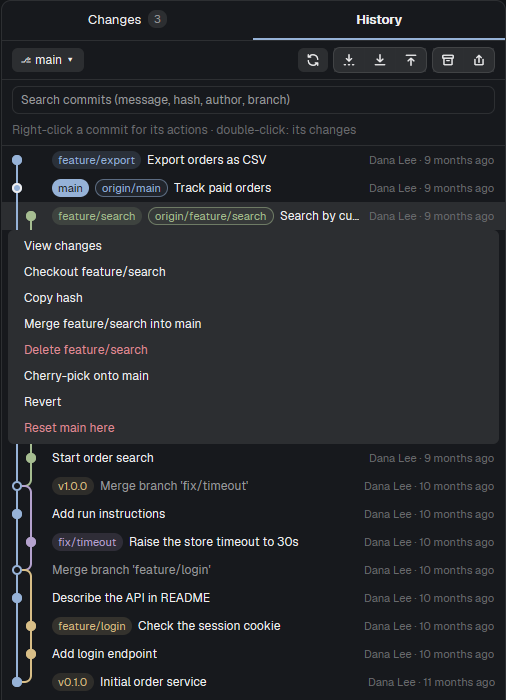
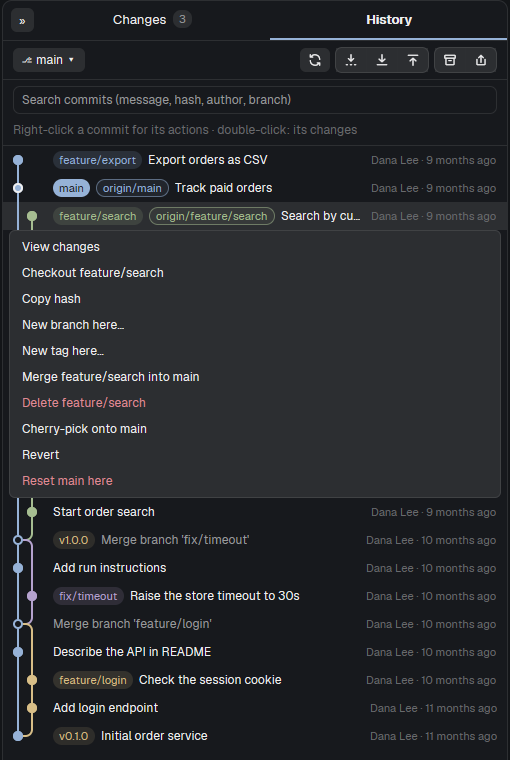
README: match the current panels; new screenshots
- Blame's head rows, Ours / Theirs taking the whole file, the delete command deleting at
  once (the menu's button is the one that asks twice), and what each file now holds
- docs/overview.png and docs/history.png: fold buttons, the drawn check box, + / − in the
  diff, and History's menu with New branch here… / New tag here…

diff --git a/README.md b/README.md
@@ -150,7 +150,9 @@ rm -rf "$APP/mods/my-files" "$APP/mods/my-changes" "$APP/layouts/my-herdr.json"
 - **Right-click** a file or folder: **@ chat**, **New file**, **New folder**,
   **Rename**, **Delete** (click twice). **+** in the header does New file / New
   folder in the top folder. On this computer only.
-- **Blame**: who changed each line; click a line to see that commit's change.
+- **Blame**: before each run of lines from one commit, a row says who, how long ago and
+  the commit's message; the code keeps the full width. Click it (or a line) to see that
+  commit's change.
 - **History**: the file's commits; click one to see its change.
 - Select code in the open file and **right-click → Send to chat**: it types the
   file and lines (`src/a.go:12-18`) and the code in a code block into the chat.
@@ -190,7 +192,8 @@ rm -rf "$APP/mods/my-files" "$APP/mods/my-changes" "$APP/layouts/my-herdr.json"
   current**. **Fetch**, **Pull**, **Push** (a new branch is pushed to `origin`),
   **Stash** (untracked files too), **Pop**.
 - Conflicts (after a merge, pull, stash pop, cherry-pick or revert): the file shows
-  `!` and its text with the conflict markers. Take **Ours** or **Theirs**, or edit
+  `!` and its text with the conflict markers. Take **Ours** or **Theirs** (each
+  takes that side's version of the **whole file**, not only the conflict), or edit
   it in Files and click **Mark resolved**; then Commit (an empty message uses
   git's). **Abort** undoes the whole operation.
 - **History** tab: the graph of all branches: one color per line,
@@ -238,7 +241,8 @@ or script them: `herdr-app do my-changes.pull`.
 - `my-files.<cmd>`: `sync`, `toggle:<folder>`, `open:<path>[:<line>]`, `save`, `close`, `find:<text>`,
   `replace-in-file:<text>|<new>`, `search:<text>`, `replace-all:<new>`, `blame`,
   `history`, `send[:<path>]`, `send-code`, `table`, `separator:<s>`, `type:<text>`, `menu:<path>` then `new-file:<name>`,
-  `new-folder:<name>`, `rename:<name>` or `delete` (twice)
+  `new-folder:<name>`, `rename:<name>` or `delete` (deletes at once:
+  the menu's Delete button asks twice, the command doesn't)
 - `my-changes.<cmd>`: `sync`, `select:<path>` (or `select:staged:<path>` /
   `select:unstaged:<path>`), `stage`, `stage-all`, `unstage-all`, `hunk:<n>`,
   `discard-hunk:<n>` (twice), `line:<hunk>:<line>`, `discard`, `open`, `ours`, `theirs`, `commit[:<message>]`,
@@ -274,16 +278,16 @@ other files add its methods by job (`Object.assign(<Class>.prototype, ...)`).
 
 | Path | What |
 | --- | --- |
-| `shared/common.js` | helpers both panels use (git, the chat, diff rows, buttons, text box, folder watch) |
+| `shared/common.js` | helpers both panels use (git, the chat, diff rows, lazy lists, folding a panel) and the shared elements: buttons, menu, name form, check box, click-twice button, text box |
 | `mods/my-files/main.js` | Files: the class, commands, keys, drawing |
-| `mods/my-files/tree.js` | listing folders (in-process here, sh or PowerShell on another machine) and the refresh |
+| `mods/my-files/tree.js` | listing folders (in-process under the home folder, else sh or PowerShell) and the refresh |
 | `mods/my-files/editor.js` | the open file: edit, save, find, replace, blame, history |
 | `mods/my-files/actions.js` | search and replace across files, @path, new / rename / delete |
 | `mods/my-files/icons.js`, `icons/` | which icon a file or folder gets; the icons are [Material Icon Theme](https://github.com/material-extensions/vscode-material-icon-theme)'s (MIT) (test: `node mods/my-files/icons.test.mjs`) |
-| `mods/my-files/text.js` | tab ↔ space indents and replacing text (test: `node mods/my-files/text.test.mjs`) |
+| `mods/my-files/text.js` | tab ↔ space indents, replacing text, the Send to chat snippet, CSV parsing, blame runs (test: `node mods/my-files/text.test.mjs`) |
 | `mods/my-changes/main.js` | Changes: the class, commands, status refresh, the diff, keys |
 | `mods/my-changes/actions.js` | stage, discard, commit, remote, stash, branches |
-| `mods/my-changes/history.js` | the History graph and a commit's changes |
+| `mods/my-changes/history.js` | the History graph, a commit's actions (branches, tags) and its changes |
 | `mods/my-changes/view.js` | drawing: tabs, toolbar, lists, diff, branch menu, commit box |
 | `mods/my-changes/status.js` | limits and the status-list helpers |
 | `mods/my-changes/patch.js` | patches for staging hunks and single lines (test: `node mods/my-changes/patch.test.mjs`) |
